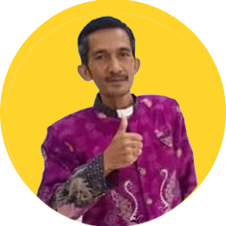
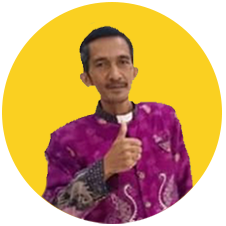
Push Notif

diff --git a/resources/views/utama/1.blade.php b/resources/views/utama/1.blade.php
@@ -227,7 +227,7 @@
                                         <div style="padding-top:2%" class="col-md-12">
                                             <div class="team-member">
                 
-                                                <img class="mx-auto rounded-circle" id="img-n"  width="150" height="150" style="display:block; margin:auto;" @if($p->cover) src="{{ asset('images/Pendeta/'.$p->cover) }}" @endif /> 
+                                                <img class="mx-auto rounded-circle" id="img-n"  width="50" height="50" style="display:block; margin:auto;" @if($p->cover) src="{{ asset('images/Pendeta/'.$p->cover) }}" @endif /> 
                                                 <h4>{{ $p->nama_pendeta }} </h4>
                                                 <p class="text-muted">Pendeta</p>
                                                 <a class="btn btn-dark btn-social mx-2" href="#!" aria-label="Parveen Anand Twitter Profile"><i class="fab fa-whatsapp"></i></a>
